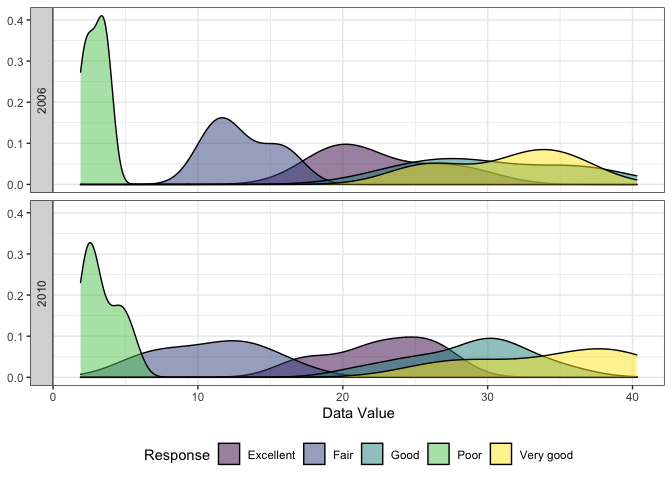
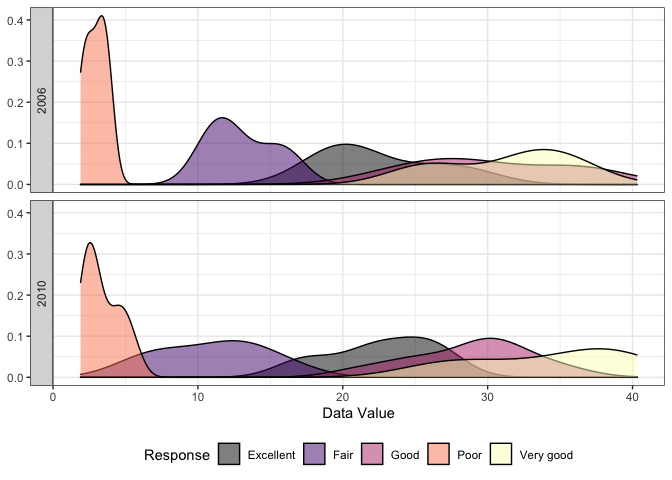
Making updates to colors

diff --git a/p8105_hw3_jdr2191.md b/p8105_hw3_jdr2191.md
@@ -35,16 +35,6 @@ library(viridis)
 
     ## Loading required package: viridisLite
 
-``` r
-options(
-  ggplot2.continuous.colour = "viridis",
-  ggplot2.continuous.fill = "viridis"
-)
-
-scale_colour_discrete = scale_colour_viridis_d 
-scale_fill_discrete = scale_fill_viridis_d
-```
-
 # Problem 1
 
 ``` r
@@ -289,6 +279,7 @@ brfssexcellent_df2 %>%
   ggplot(aes(x = year, y = meandatavalue)) + 
   geom_line(aes(group = locationabbr, color = locationabbr)) +
   geom_point(aes(group = locationabbr, color = locationabbr), size = .4) +
+  scale_fill_brewer() +
   labs(x = "Year", y = "Mean data value", col = "State")
 ```
 
@@ -310,7 +301,8 @@ brfss20062010_df %>%
   facet_grid(rows = vars(year2), switch = "y") +
   theme_bw() + 
   theme(legend.position = "bottom", axis.title.y = element_blank()) +
-  labs(x = "Data Value", fill = "Response") 
+  labs(x = "Data Value", fill = "Response") +
+  scale_fill_viridis_d(option = "A")
 ```
 
 ![](p8105_hw3_jdr2191_files/figure-gfm/2006%20and%202010%20plots-1.png)<!-- -->
@@ -356,7 +348,12 @@ view(accel)
 ```
 
 There are 35 observations and 1444 variables in the tidied accelerometer
-dataset. The dataset includes data over 1, 2, 3, 4, 5
+dataset. The dataset includes data over 35 days (5 weeks). The dataset
+also indicates the day of the week that the measurements come from.
+There are 1,440 “minute” variables that include the accelerometer data
+by minute over a 24 hour period. Lastly, there is a newly added variable
+day\_class that indicates if the day of the week is a weekday or a
+weekend.
 
 Traditional analyses of accelerometer data focus on the total activity
 over the day. Using your tidied dataset, aggregate accross minutes to
@@ -412,7 +409,18 @@ knitr::kable(accelagg)
 
 ``` r
 view(accelagg)
+
+accelagg %>%
+  ggplot(aes(x = day_id, y = daysum, group = day), color = factor(day)) + 
+  geom_boxplot(aes(color = day)) +
+  labs(x = "Unique Day Identification", y = "Total activity per day", col = "Day of the week") 
 ```
+
+![](p8105_hw3_jdr2191_files/figure-gfm/unnamed-chunk-1-1.png)<!-- -->
+After I made the table, I plotted these data in a boxplots in order to
+better observe trends. Using the boxplots, we see that the patient is
+most active on Fridays. His activity is highly variable on Saturdays and
+not very variable on Wednesdays.
 
 Accelerometer data allows the inspection activity over the course of the
 day. Make a single-panel plot that shows the 24-hour activity time
